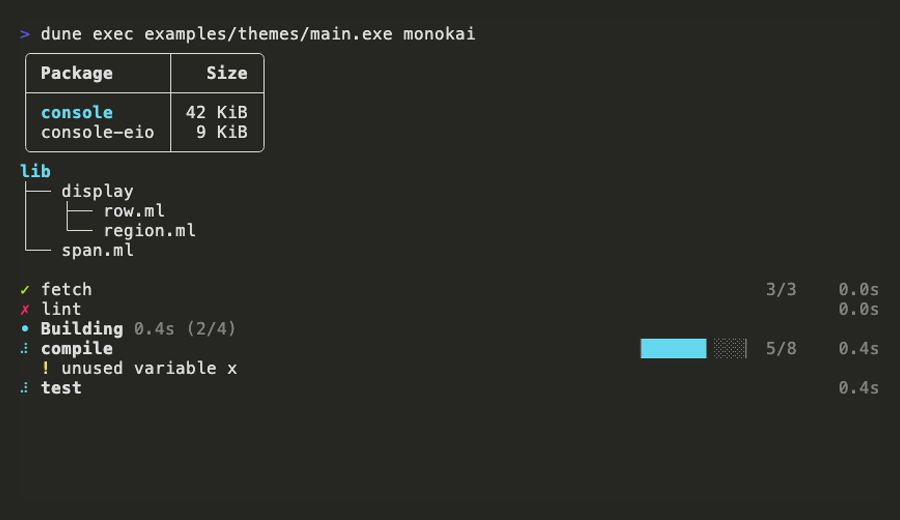
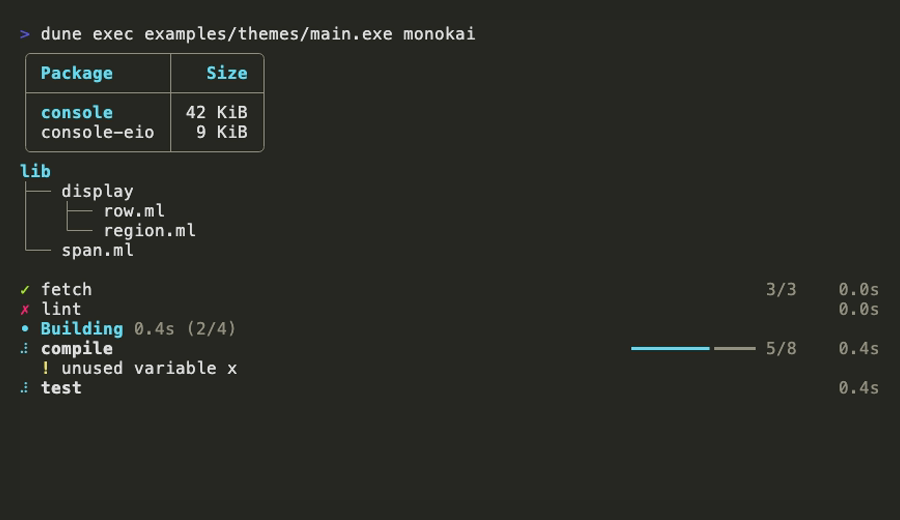
console: record the theme gallery from Theme.all
The gallery listed its seventeen themes and their backgrounds twice, in
the demo and in its tape, under names of its own, and left Theme.ascii
out. The demo now reads its theme with Theme.of_string and gives it to
standard output with Theme.set, and the tape takes each background from
Theme.background, so tape.ml is the one place that says how a picture is
recorded. The pictures are recorded again, for all eighteen themes, with
the muted frames, the header style and the new bars; the README names the
theme for any background and says that a scheme's theme assumes the
terminal uses that scheme.

diff --git a/README.md b/README.md
@@ -19,7 +19,8 @@ It has:
   pipe or a CI log;
 - correct alignment for wide characters, such as Chinese, Japanese, Korean
   and emoji, which take two columns on screen;
-- seventeen themes, from the colour schemes you may already use.
+- eighteen themes, from the colour schemes you may already use, chosen
+  with one `--theme` option.
 
 ## Installation
 
@@ -343,11 +344,20 @@ with the `console` package; add `console.text` to the `libraries` of your
 ## Themes
 
 Each picture is [the same program](examples/themes/main.ml) in one theme,
-recorded by [its tape](examples/themes/tape.ml).
+recorded by [its tape](examples/themes/tape.ml), on the background the
+theme is made for. `Theme.default` reads on any background; a theme named
+after a colour scheme is for a terminal that uses that scheme, and its
+colours may be hard to read on another background. Every theme falls back
+to ASCII on a terminal whose locale is not UTF-8, as `Theme.ascii` always
+does.
 
 ### `Theme.default`
 
-![The theme demo in unicode](examples/themes/unicode.png)
+![The theme demo in default](examples/themes/default.png)
+
+### `Theme.ascii`
+
+![The theme demo in ascii](examples/themes/ascii.png)
 
 ### `Theme.dos`
 
@@ -412,7 +422,3 @@ recorded by [its tape](examples/themes/tape.ml).
 ### `Theme.github_light`
 
 ![The theme demo in github-light](examples/themes/github-light.png)
-
-## License
-
-ISC. See [LICENSE.md](LICENSE.md).

diff --git a/CHANGES.md b/CHANGES.md
@@ -1,3 +1,11 @@
 ## 1.0.0
 
 - Initial version.
+- Eighteen themes (`Console.Theme`), from `Theme.default`, which reads on
+  any background, to the colour schemes of Dracula, Nord, Solarized,
+  gruvbox, Catppuccin, Tokyo Night, One Dark, Monokai and GitHub. A theme
+  is kept on the formatter (`Theme.set`), as its colour depth is, and every
+  widget is drawn in it; `Theme.all` and `Theme.of_string` give a
+  `--theme` option in one line. Text colours are at 4.5:1 contrast on the
+  theme's background and glyph colours at 3:1, and every widget falls back
+  to ASCII on a formatter that is not UTF-8.
